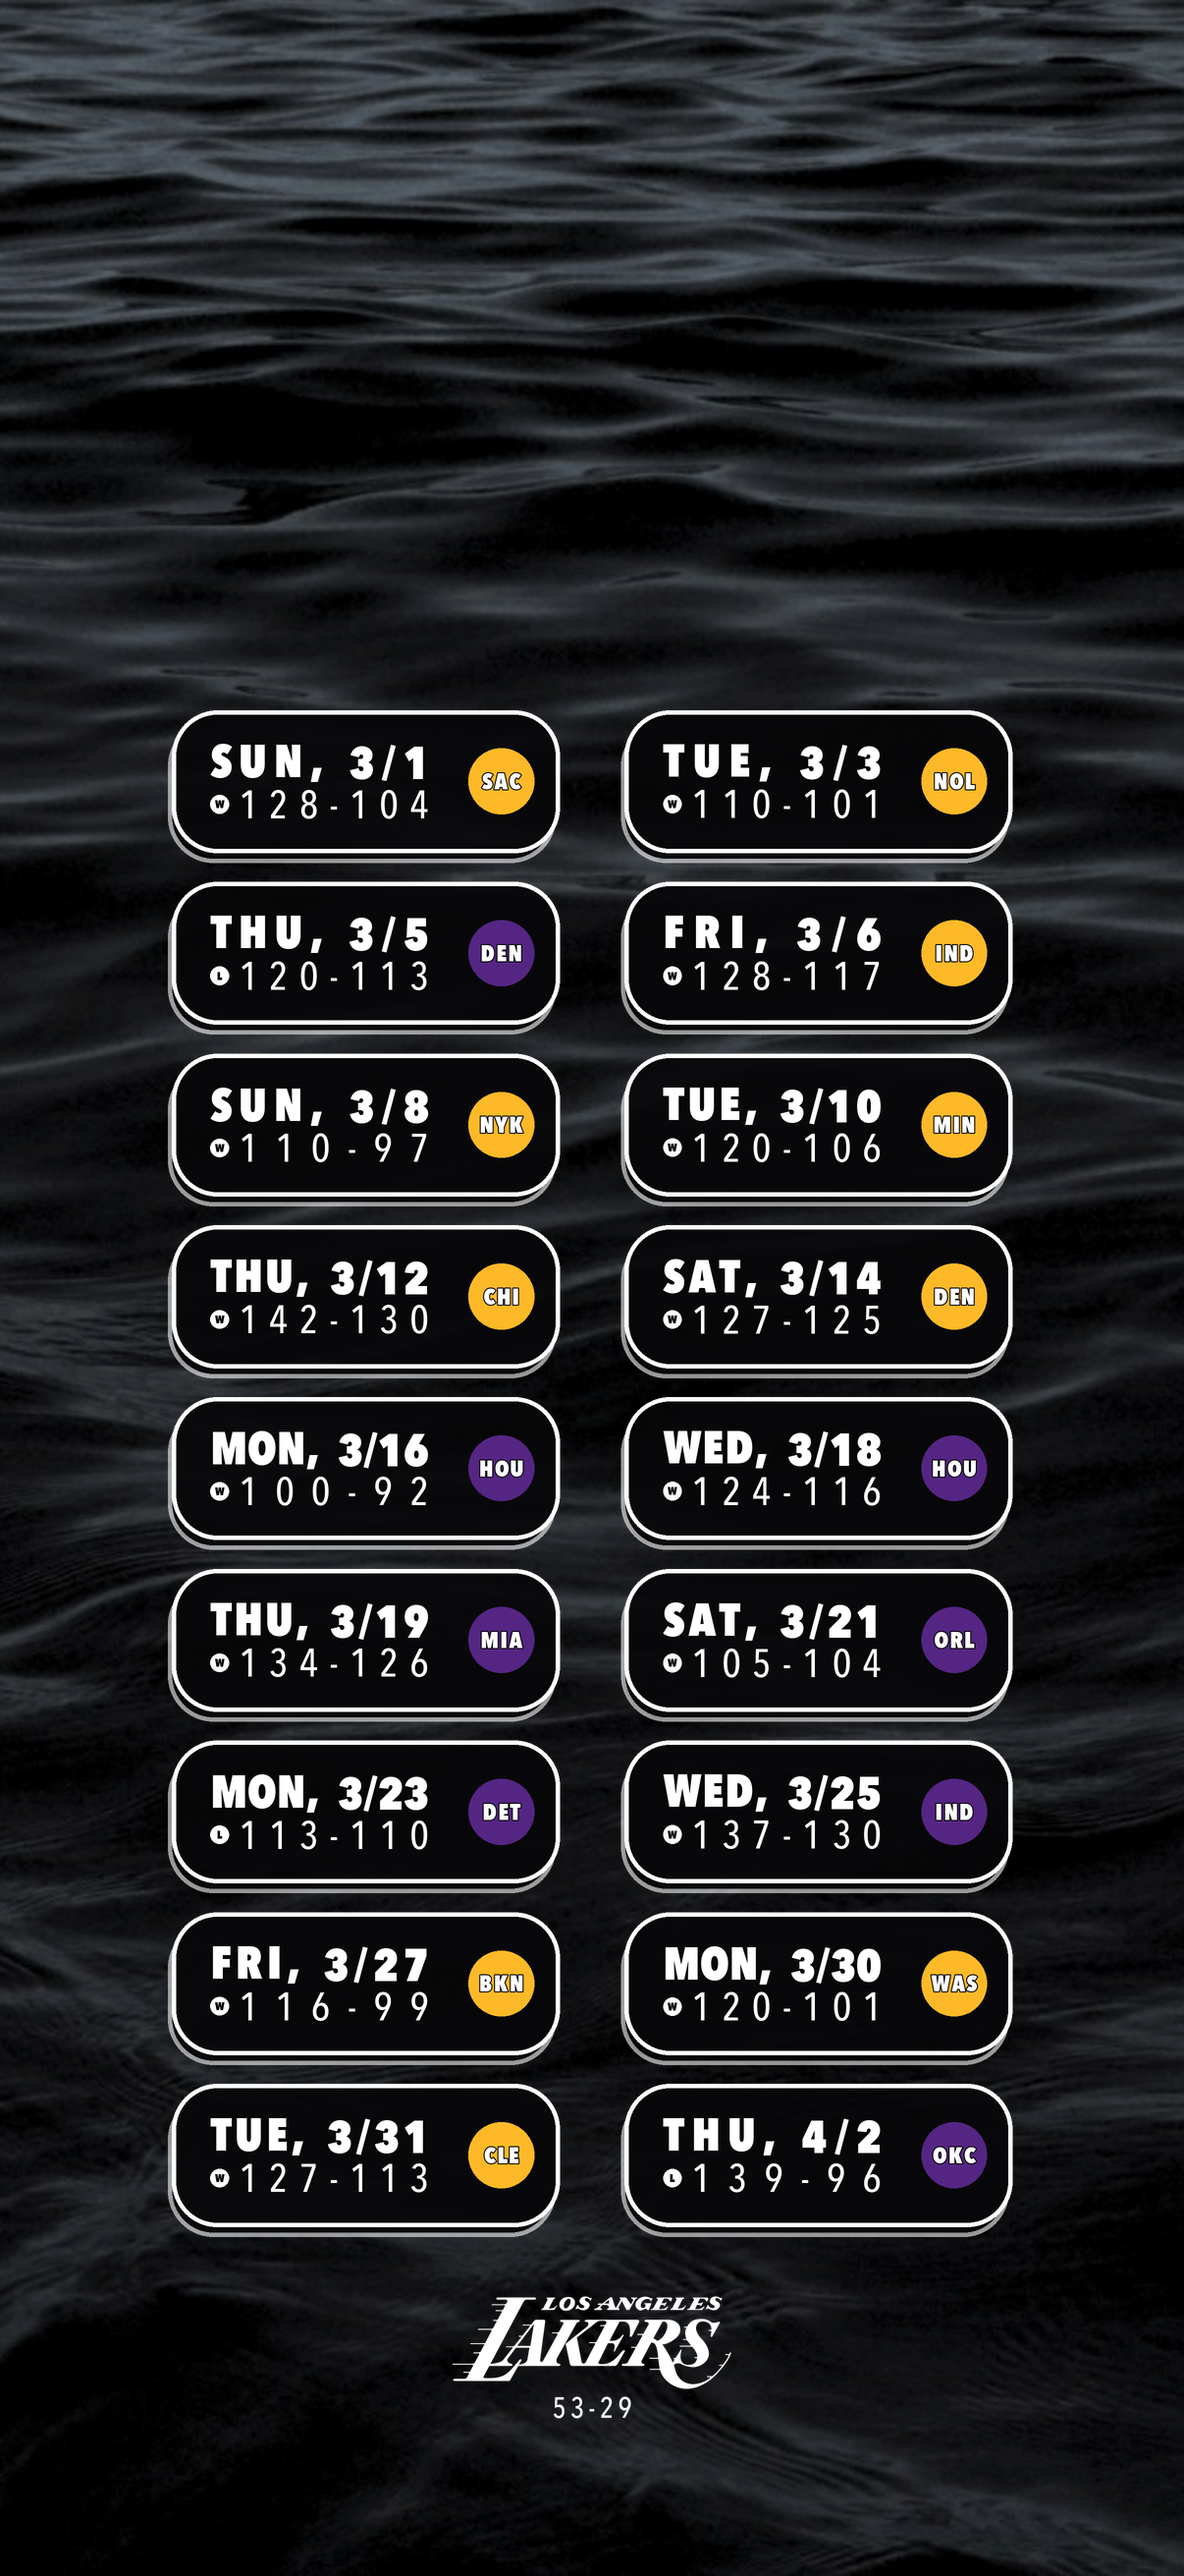
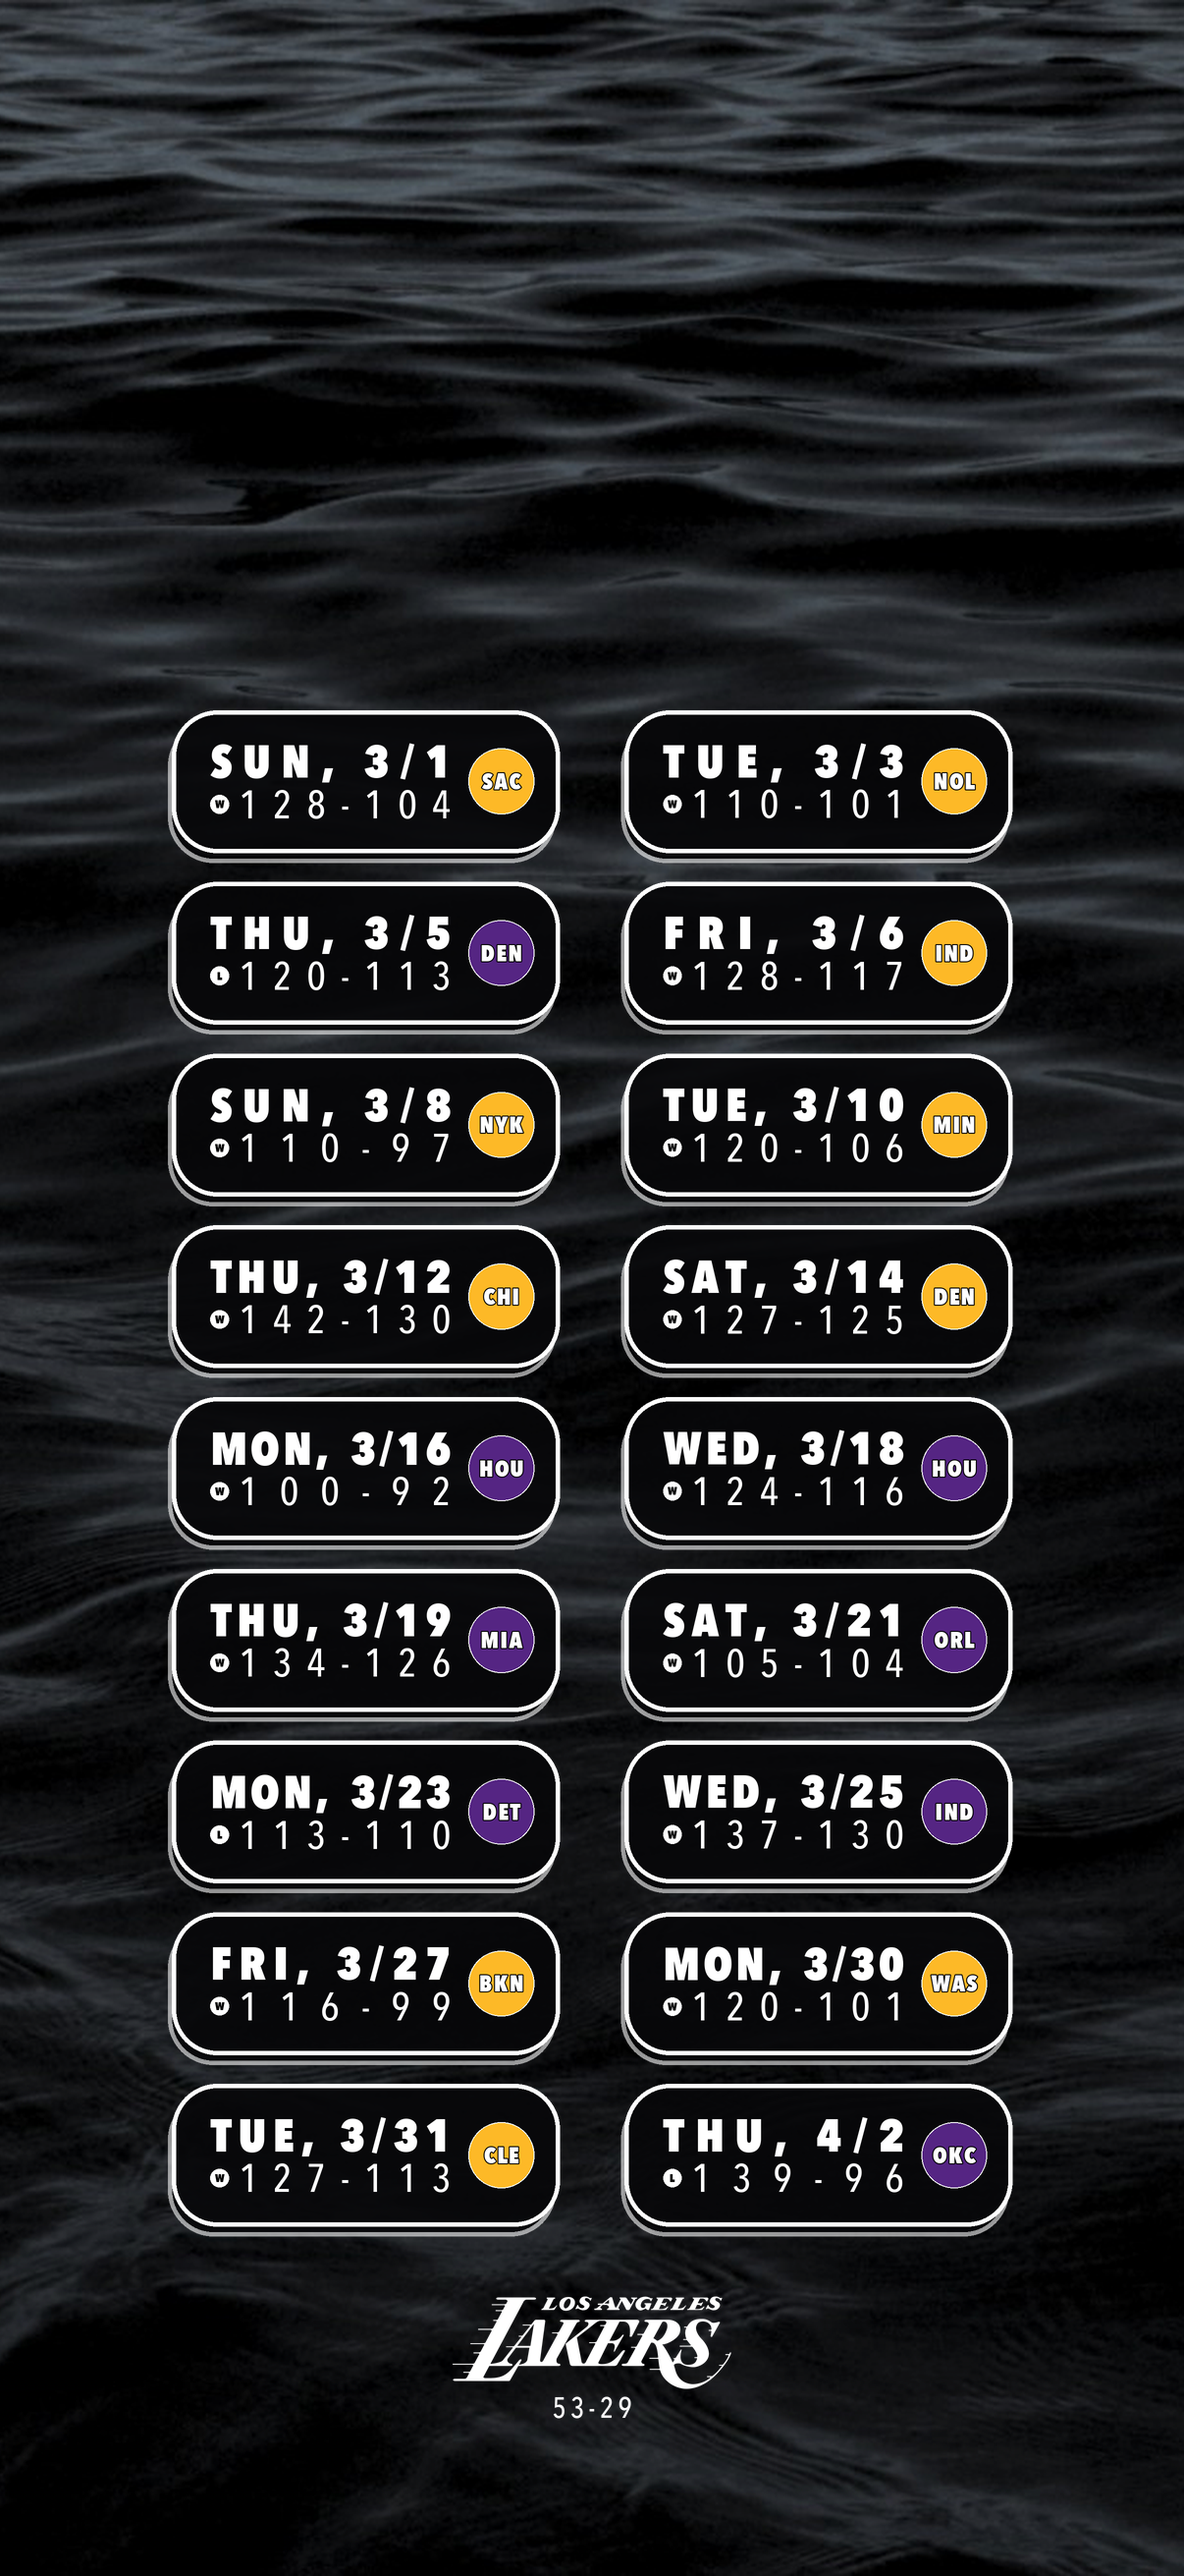
Make every month's chips identical
Light months rendered wider, taller chips, so October's text-to-circle gap
was 59px against March's 41px. Single-column chips now use the same size
as two-column ones, and the line width is measured across the whole season
rather than per month, so November's longer dates no longer make November
different. Every month: chip 395x145, text 245, circle 67, gap 18.

diff --git a/lakerscreen/render.py b/lakerscreen/render.py
@@ -327,7 +327,8 @@ def _vertical_scale(c: _Canvas, cfg: Config, h: float) -> float:
 
 
 def _line_target(c: _Canvas, cfg: Config, w: float, h: float,
-                 games: Sequence[Game], scale: float, tag_w: float) -> float:
+                 games: Sequence[Game], scale: float, tag_w: float,
+                 season: Optional[Sequence[Game]] = None) -> float:
     """The single width every line in the month is set to.
 
     Anchored to a reference date string so a light month and a heavy one look
@@ -344,7 +345,9 @@ def _line_target(c: _Canvas, cfg: Config, w: float, h: float,
     target = sum(c.text_width(part, font, tracking) for part in ref)
     target += ds * lay.date_gap * max(0, len(ref) - 1)
 
-    for g in games:
+    # Measured across the whole season, not just this month, so November's
+    # longer dates do not make November's chips different from March's.
+    for g in (season or games):
         tl, bl, _, _ = _chip_lines(c, g, cfg, w, h, scale)
         target = max(target, _runs_width(tl), _runs_width(bl))
     return min(target, lz1 - lz0)
@@ -597,7 +600,7 @@ def build(cfg: Config, ttl: Optional[int] = None
 
         tag_w, tag_h_px, tag_letter_px = _tag_metrics(c, cfg, chip_h, shown)
         scale = _type_scale(c, cfg, col_w, chip_h, shown, tag_w)
-        line_target = _line_target(c, cfg, col_w, chip_h, shown, scale, tag_w)
+        line_target = _line_target(c, cfg, col_w, chip_h, shown, scale, tag_w, games)
         for i, g in enumerate(shown):
             row, col = divmod(i, cols)            # row-major: L, R, L, R ...
             x0 = col_x[col]

diff --git a/lakerscreen/config.py b/lakerscreen/config.py
@@ -62,9 +62,9 @@ class Layout:
     column_gutter: float = 0.0550       # fraction of width
     # Chip proportions.
     max_pitch: float = 0.0744           # row-to-row spacing cap, of image height
-    single_col_width: float = 0.4000    # chip width in single-column mode, of image width
+    single_col_width: float = 0.3275    # chip width in single-column mode, of image width
     chip_height_ratio: float = 0.8300    # of the per-row pitch
-    chip_max_height: float = 0.0680     # of image height, caps chips in light months
+    chip_max_height: float = 0.0553     # of image height, caps chips in light months
     corner_radius_ratio: float = 0.3200   # of chip height
     border_ratio: float = 0.0300         # of chip height
     stack_dx: float = -0.025            # sticker-stack offset, of chip height
@@ -97,7 +97,8 @@ class Layout:
     tag_gap: float = 0.0450             # space between text block and tag, of chip width
     tag_right_pad: float = 0.0650       # tag inset from the chip's right edge
     justify_lines: bool = True         # stretch both lines to a shared width
-    ref_line: str = "MON, 3/23"         # width every line is set to
+    ref_line: str = "WED, 11/28"        # width every line is set to; the
+                                        # longest real date, so every month matches
     tag_outline: float = 0.018          # white keyline around the tag, of tag height
     tag_text_stroke: float = 0.032      # black keyline on the letters, of letter size
     tag_fill_accent: bool = True        # gold/purple tag + white letters,
